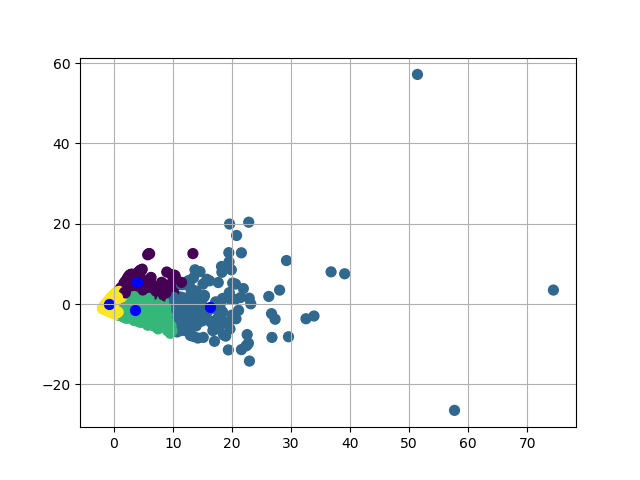
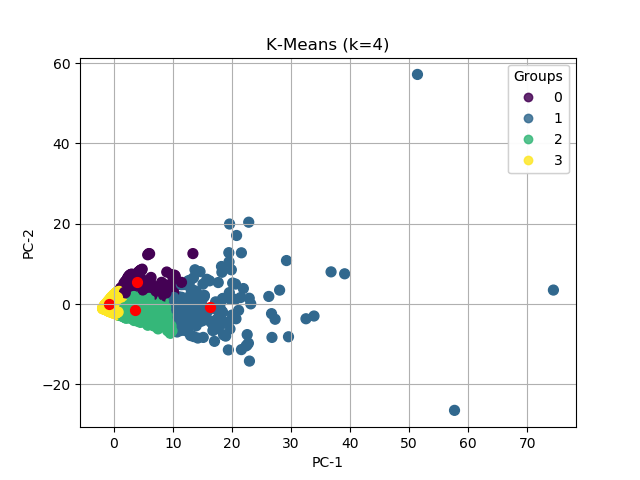
[Task1] Add legend to kmeans plot & extract 3 outliers

diff --git a/Task1/src/models/kmeans.py b/Task1/src/models/kmeans.py
@@ -82,13 +82,19 @@ print('Distortion: {:.2f}'.format(km.inertia_))
 
 
 ## [ Plot ]
+fig, ax = plt.subplots()
+# Plot original points with color related to group
+scatter = ax.scatter(X_pca[:,0], X_pca[:,1], c=km.labels_, s=50)
+# Add group color legend
+ax.add_artist(ax.legend(*scatter.legend_elements(alpha=0.8), loc="upper right", title="Groups"))
+# Plot centroids
+plt.scatter(km.cluster_centers_[:,0], km.cluster_centers_[:,1], c='red', s=50)
 
-# #plotting orginal points with color related to label
-# plt.scatter(X_pca[:,0], X_pca[:,1], c=km.labels_,s=50)
-# # plotting centroids
-# plt.scatter(km.cluster_centers_[:,0], km.cluster_centers_[:,1], c='blue',s=50)
-# plt.grid()
-# plt.show()
+plt.title("K-Means (k=4)")
+plt.xlabel("PC-1")
+plt.ylabel("PC-2")
+plt.grid(True)
+plt.show()
 
 # Interpretation:
 #   - The phone is usually resting in a table (probably blue group)
@@ -101,9 +107,17 @@ print('Distortion: {:.2f}'.format(km.inertia_))
 
 
 
+## Extract outliers
+outliers = df[X_pca[:, 0] > 50]
+outliers.to_csv(os.path.join('.', 'reports', 'tables', 'kmeans_outliers.csv'), index=False)
+
+
+
 df['kmeans_group'] = km.labels_
 
+## Get mean of k-means groups for each feature
 res = df.groupby(('kmeans_group')).mean()
+print(res)
 res.plot(kind='bar', legend=True)
+res.to_csv(os.path.join('.', 'reports', 'tables', 'kmeans_group_mean_per_feature.csv'))
 plt.show()
-res.to_excel('KMeans.xlsx')

diff --git a/Task1/src/features/pca.py b/Task1/src/features/pca.py
@@ -22,7 +22,8 @@ df_scaled = scaler.fit_transform(df)
 
 
 ##  PCA
-estimator = PCA(n_components = 2)
+N_COMPONENTS = 2
+estimator = PCA(n_components = N_COMPONENTS)
 X_pca = estimator.fit_transform(df_scaled)
 print("[ Explained variance ratio ]")
 print(estimator.explained_variance_ratio_)
@@ -33,7 +34,7 @@ print(sum(estimator.explained_variance_ratio_))
 
 
 print("[ Relation between PCA components and features ]")
-print(pd.DataFrame(np.matrix.transpose(estimator.components_), columns=['PC-1', 'PC-2'], index=df.columns))
+print(pd.DataFrame(np.matrix.transpose(estimator.components_), columns=[f'PC-{i}' for i in range(N_COMPONENTS)], index=df.columns))
 # Interpretation:
 #   - Component1 includes mainly contributions from X and Y axes
 #   - Component2 includes mainly contributions from Z axis

diff --git a/Task1/src/features/get_t2_tuesdays.py b/Task1/src/features/get_t2_tuesdays.py
@@ -11,7 +11,7 @@ import datetime
 
 #0 . Load the data 
 # read the csv
-df = pd.read_csv("T2.csv")
+df = pd.read_csv(os.path.join('.', 'data', 'raw', 'T2.csv'))
 # list the columns
 list(df)
 # print number of rows and columns 
